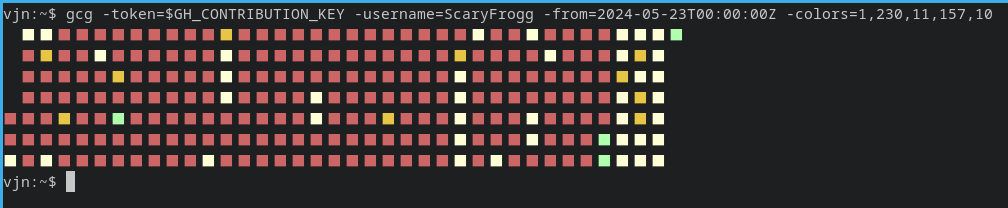
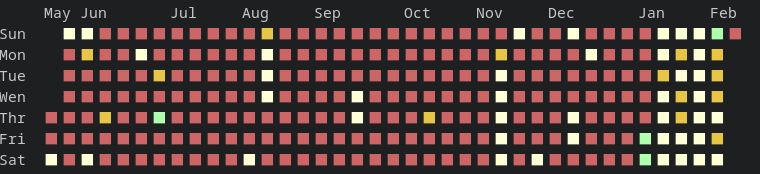
fixed month padding, improved makefile, documented version

diff --git a/internal/draw/draw.go b/internal/draw/draw.go
@@ -79,6 +79,7 @@ func DrawMonthsLegend(legend bool, from string, intervalLength int) {
 		if currMonth != firstSunday.AddDate(0, 0, i*7).Month() {
 			currMonth = firstSunday.AddDate(0, 0, i*7).Month()
 			fmt.Printf("%.3s ", currMonth)
+			i++ //skip additional square since we printed across 2
 		} else {
 			fmt.Printf("\u3000")
 		}

diff --git a/Readme.md b/Readme.md
@@ -1,10 +1,11 @@
+
 ![screenshot](assets/product-screenshot.png)
 ## Getting Started
 
-### Getting binary
+### Getting the binary
 If you have `go` installed, you can build from source
 ```sh
-go build -o gitContributionGraph cmd/git_contribution_graph/main.go
+go build -o gcg cmd/git_contribution_graph/main.go
 ```
 Or download from [releses page](https://github.com/ScaryFrogg/git_contribution_graph/releases/).
 
@@ -18,33 +19,38 @@ Only dependency needed is `git`.
 
 ### Github Contributions Graph
 ```sh
-gitContributionGraph -token=$GH_CONTRIBUTION_KEY -username=ScaryFrogg
+gcg -token=$GH_CONTRIBUTION_KEY -username=ScaryFrogg
 ```
+![screenshot](assets/defaults.png)
+
 By default graph shows current year from beggining until present time. If you want to specify period you can do that by providing `from` and `to` flags using ISO-8601 format.
 ```sh
-gitContributionGraph -token=$GH_CONTRIBUTION_KEY -username=ScaryFrogg -from=2023-01-01T00:00:00Z -to=2023-12-31T23:59:00Z 
+gcg -token=$GH_CONTRIBUTION_KEY -username=ScaryFrogg -from=2023-01-01T00:00:00Z -to=2023-12-31T23:59:00Z 
 ```
+![screenshot](assets/to-from-options.png)
 > **_NOTE:_**  GitHub API doesn't accept period longer than 1 year.
 
 ### Local Git reposetories
-This is the default mode and you don't need to provide any options, just call binary and graph will be printed if you are inside git repository.
+This is the default mode and you and it is activated when no `tokem` is provided.
 Options `from` and `to` are optional and work the same as in github mode.
-Other examples of usages:
-- if you want to call graph on demand often you can set alias in your .bashrc or equivalent for other shells:
-```bash
-alias gcg='gitContributionGraph'
-```
-- if you want to be able to change dirs with this command and print result after you can do something like
+
+To add gcg to run after you change directory in terminal and print if you are inside repo you can add something like this in your .bashrc or equivalent file for other shells:
+
 ```bash
 function cd {
-    builtin cd "$@" && gitContributionGraph
+    builtin cd "$@" && gcg
 }
 ```
-now every time when you cd into repo folder graph will get printed.
 
 ### Additional Options
 * `colors` : lets you provide custom colors for squares in the graph, format should be 5 [ANSI 256](https://hexdocs.pm/color_palette/ansi_color_codes.html) color codes separated by comma.
 ```bash
-gcg -token=$GH_CONTRIBUTION_KEY -username=ScaryFrogg -from=2024-05-23T00:00:00Z -colors=1,230,11,157,10
+gcg -colors=1,230,11,157,10 -token=$GH_CONTRIBUTION_KEY -username=ScaryFrogg -from=2024-05-23T00:00:00Z 
 ```
 ![customColors](assets/colors-option.png)
+* `legend` :  by default set to `true` if set to `false` will remove months and weekdays from output
+ ```bash
+gcg -legend=false -token=$$GH_CONTRIBUTION_KEY -username=ScaryFrogg -from=2024-05-23T00:00:00Z 
+```
+
+![noLegend screenshot](assets/no-legend-option.png)
